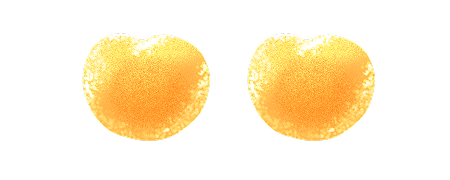
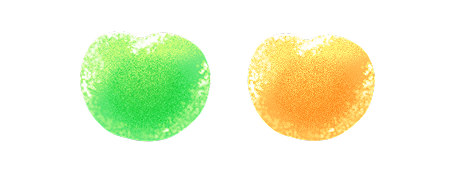
hoon_4.4.4

Changed region(s): [[0.1556, 0.1667, 0.4667, 0.8056]]

diff --git a/lib/view/v_forestParkShop.dart b/lib/view/v_forestParkShop.dart
@@ -56,7 +56,7 @@ class _ForestParkShopState extends State<ForestParkShop> {
                 child: AppBar(
                   elevation: 0,
                   surfaceTintColor: Colors.transparent,
-                  title: Text('열매 상점',
+                  title: Text('열매 교환소',
                     style: SDSTextStyle.bold.copyWith(
                         color: SDSColor.snowliveWhite,
                         fontSize: 16
@@ -90,7 +90,7 @@ class _ForestParkShopState extends State<ForestParkShop> {
                               Row(
                                 children: [
                                   Image.asset(
-                                    'assets/imgs/imgs/snowballShop/icon_snowballshop_whiteball.png',
+                                    'assets/imgs/imgs/img_forest_fruit_green.png',
                                     height: 16,
                                   ),
                                   SizedBox(width: 4),
@@ -107,7 +107,7 @@ class _ForestParkShopState extends State<ForestParkShop> {
                               Row(
                                 children: [
                                   Image.asset(
-                                    'assets/imgs/imgs/snowballShop/icon_snowballshop_goldball.png',
+                                    'assets/imgs/imgs/img_forest_fruit.png',
                                     height: 16,
                                   ),
                                   SizedBox(width: 4),
@@ -605,27 +605,27 @@ class _ForestParkShopState extends State<ForestParkShop> {
                                                 Row(
                                                   children: [
                                                     Image.asset(
-                                                      'assets/imgs/imgs/snowballShop/icon_snowballshop_whiteball.png',
+                                                      'assets/imgs/imgs/img_forest_fruit_green.png',
                                                       height: 12,
                                                     ),
-                                                    SizedBox(width: 5),
+                                                    SizedBox(width: 4),
                                                     Text(
                                                       '${item.leafKind1Count ?? 0}',
-                                                      style: SDSTextStyle.regular.copyWith(fontSize: 12, color: SDSColor.snowliveWhite.withOpacity(0.6),),
+                                                      style: SDSTextStyle.regular.copyWith(fontSize: 12, color: SDSColor.snowliveWhite.withOpacity(0.7),),
                                                     ),
                                                   ],
                                                 ),
-                                                SizedBox(width: 5,),
+                                                SizedBox(width: 8),
                                                 Row(
                                                   children: [
                                                     Image.asset(
-                                                      'assets/imgs/imgs/snowballShop/icon_snowballshop_goldball.png',
+                                                      'assets/imgs/imgs/img_forest_fruit.png',
                                                       height: 12,
                                                     ),
-                                                    SizedBox(width: 5),
+                                                    SizedBox(width: 4),
                                                     Text(
                                                       '${item.leafKind2Count ?? 0}',
-                                                      style: SDSTextStyle.regular.copyWith(fontSize: 12, color: SDSColor.snowliveWhite.withOpacity(0.6),),
+                                                      style: SDSTextStyle.regular.copyWith(fontSize: 12, color: SDSColor.snowliveWhite.withOpacity(0.7),),
                                                     ),
                                                   ],
                                                 ),

diff --git a/lib/view/v_home_forestPark.dart b/lib/view/v_home_forestPark.dart
@@ -421,7 +421,7 @@ class _ForestParkHomeState extends State<ForestParkHome> {
                                     Row(
                                       children: [
                                         Image.asset(
-                                          'assets/imgs/imgs/img_forest_fruit.png',
+                                          'assets/imgs/imgs/img_forest_fruit_green.png',
                                           width: 22,
                                           height: 22,
                                         ),
